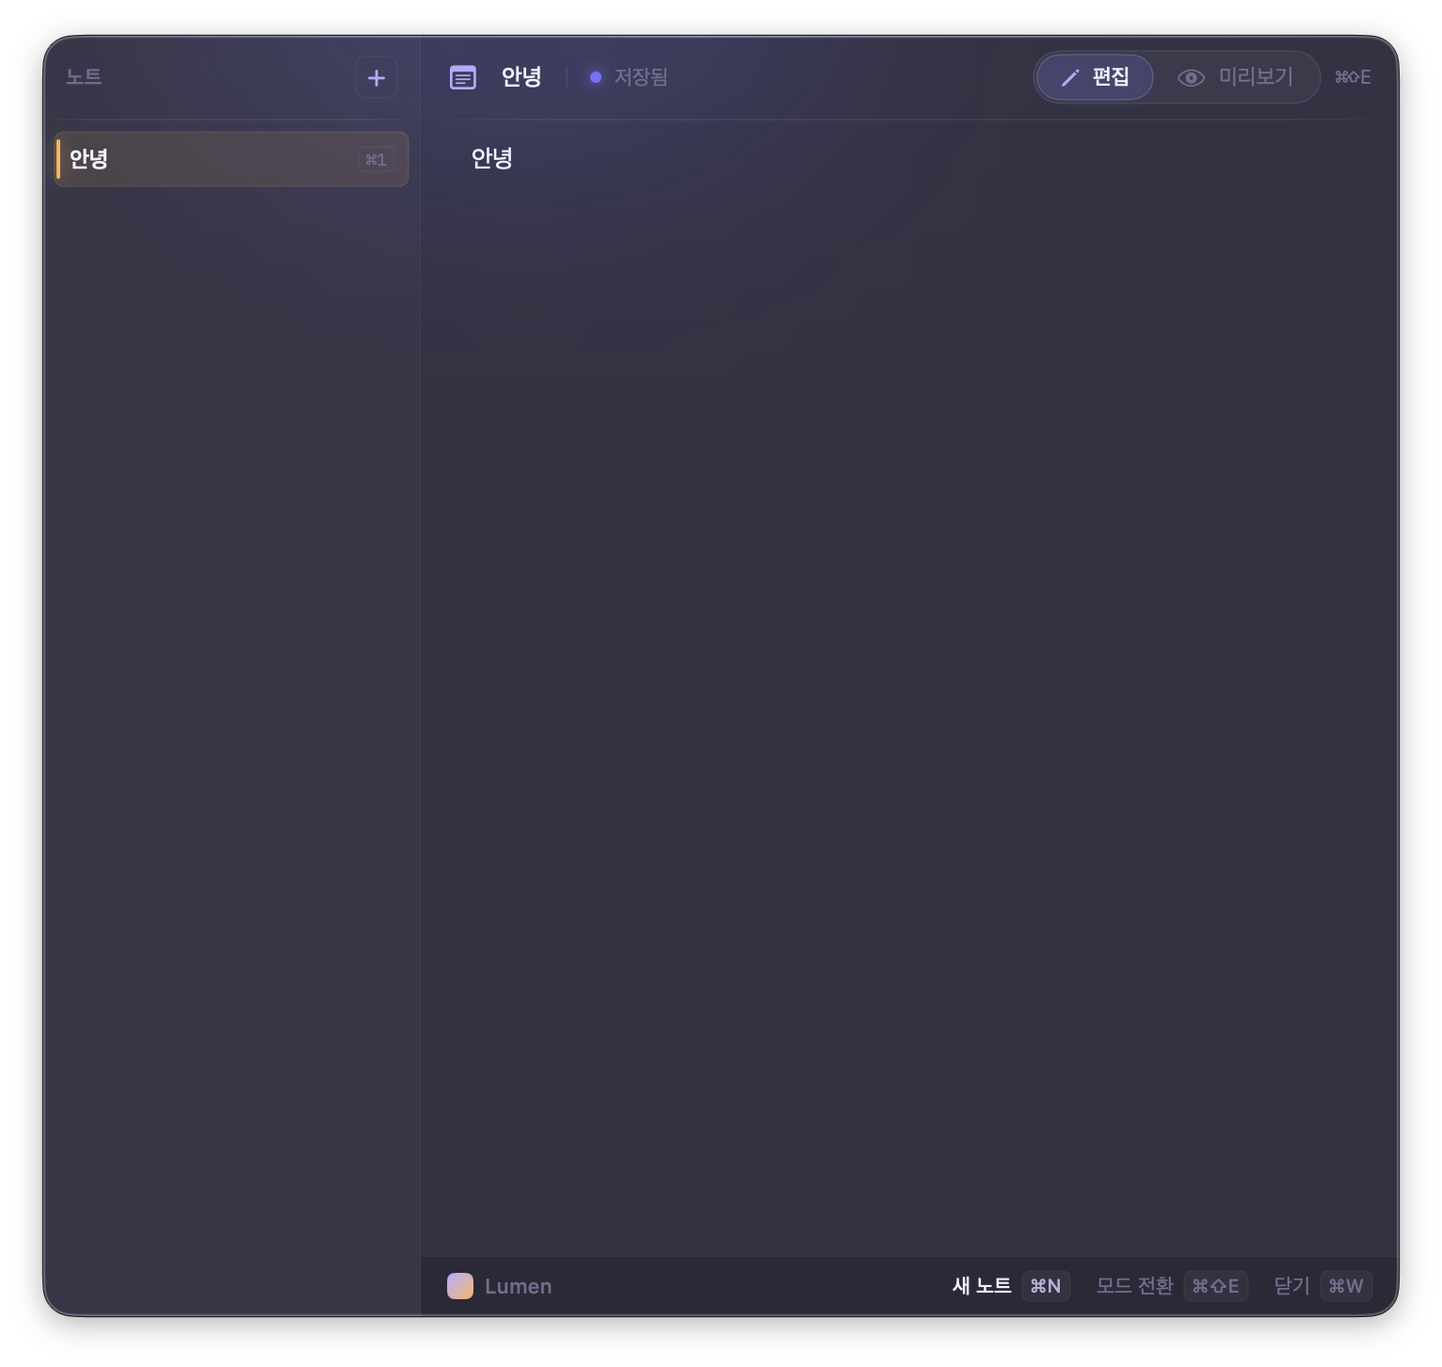
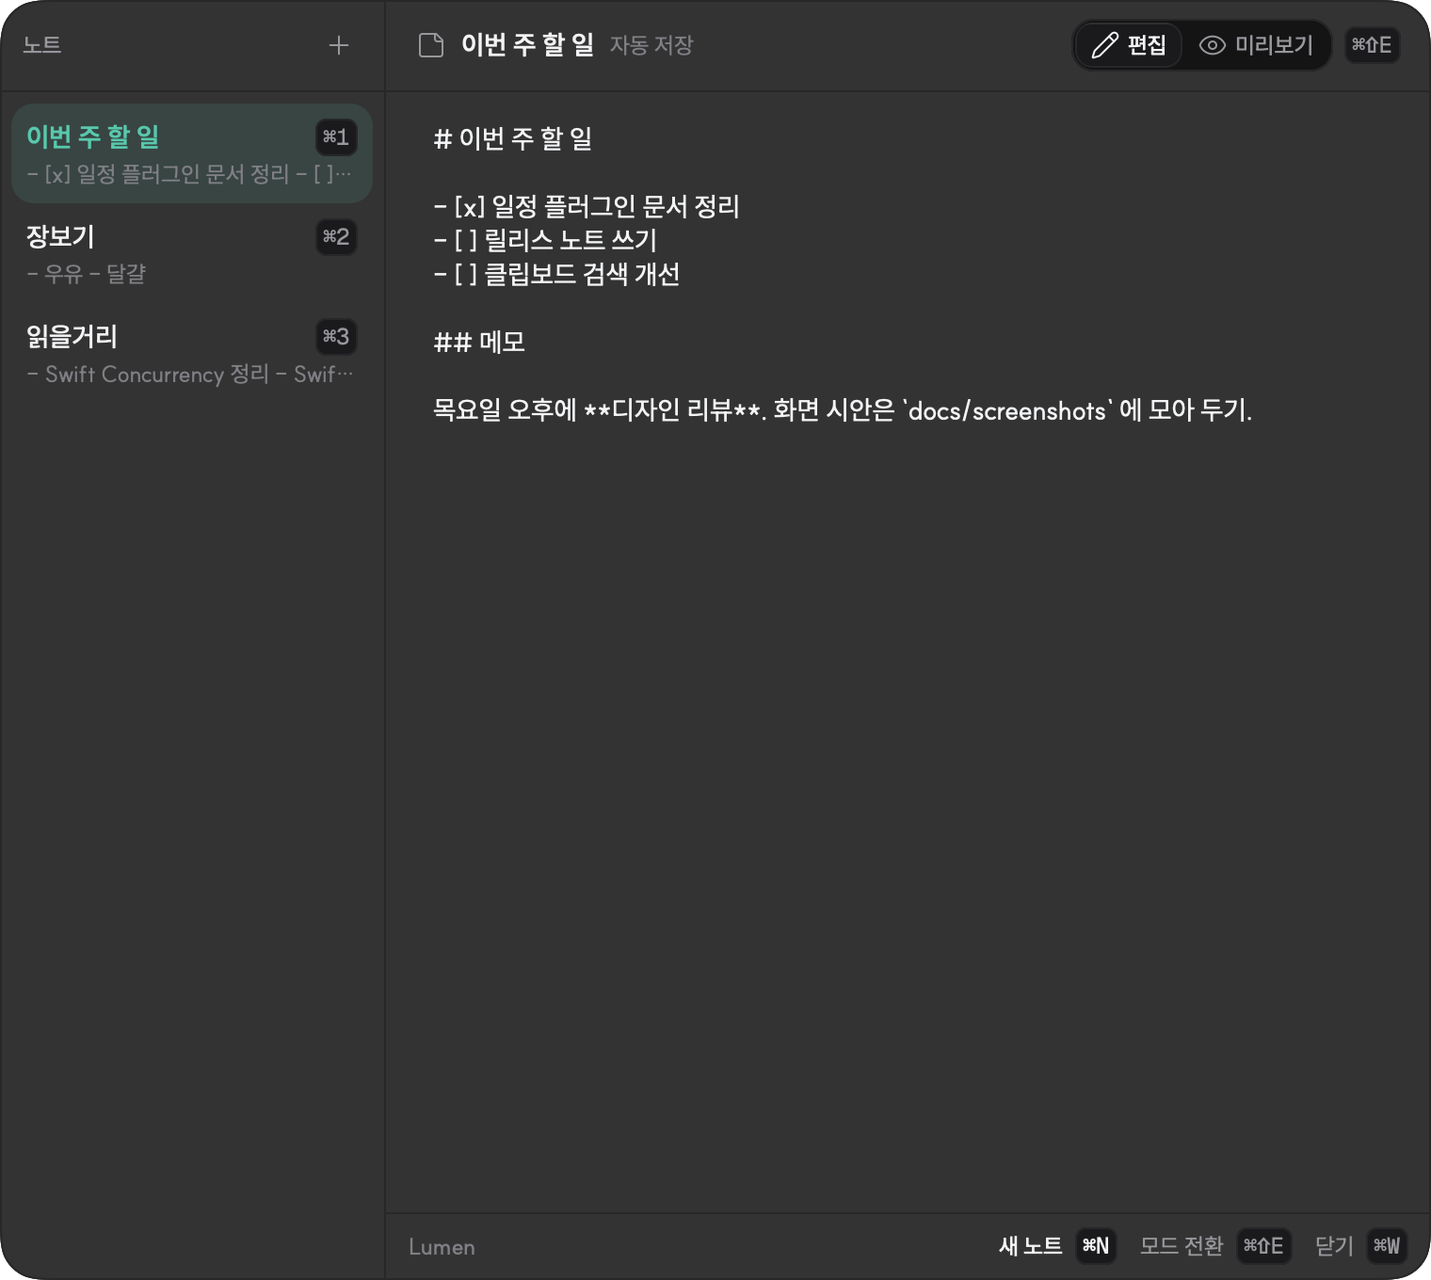
README 갱신, 스크린샷을 예시 데이터로 다시 그림 (#24)
* README 자격증명 위치를 secrets.dat 로 수정

70a7143 에서 Keychain 을 파일 기반 SecretStore 로 바꿨지만 README 데이터 위치 항목은 Keychain 으로 남아 있었다.

* graphify-out/ 을 .gitignore 에 추가

* graphify 를 필요할 때만 쓰도록 CLAUDE.md 규칙 추가

Swift 파일 120개 규모에서는 grep 이 더 빠르다. 그래프는 구조 점검, 문서와 코드 대조, 흐름 추적에만 쓴다.

* 초기 MVP 계획 문서 ultraplan_prompt.md 삭제

설정 UI 없음, API 키 하드코딩 허용 등 지금 코드·AGENTS.md 와 반대되는 내용이라 다른 세션이 현재 규칙으로 오해할 수 있다. 내용은 git 이력에 남는다.

* agent-install.md 에서 ClaudeSpot 정리와 키체인 트러블슈팅 삭제

ClaudeSpot 은 4월에 Lumen 으로 이름을 바꾼 뒤 흔적이 없고, 자격증명이 secrets.dat 파일로 옮겨져 키체인 prompt 증상은 더 생기지 않는다.

* README 갱신, 스크린샷을 예시 데이터로 다시 그림

기존 클립보드·설정 스크린샷에 회사 Jira 주소와 API 토큰 앞부분이 찍혀 있었다. 실제 앱 화면 대신 예시 데이터로 그리는 ReadmeScreenshotTests 를 추가하고 6장을 모두 교체했다. 없는 단축키(⌘⇧M), 업데이트 주기, 사라진 발음 기능 등 틀린 설명을 고치고 빠진 기능(카페인, 클램쉘 모드, 컬러 피커, 리소스 모니터)과 ⌘⇧L 을 추가했다.

Changed region(s): [[0.0, 0.0, 1.0, 1.0], [0.3092, 0.3088, 0.8658, 0.3397], [0.2164, 0.2471, 0.2783, 0.3088]]

diff --git a/Lumen/LumenTests/ReadmeScreenshotTests.swift b/Lumen/LumenTests/ReadmeScreenshotTests.swift
@@ -1,0 +1,122 @@
+import AppKit
+import SwiftUI
+import XCTest
+@testable import Lumen
+
+/// README 스크린샷을 예시 데이터로 그린다. 실제 앱 화면을 찍으면 클립보드·노트·설정 값이 그대로 찍히기 때문이다.
+/// `TEST_RUNNER_LUMEN_SNAPSHOT_DIR=<폴더>` 를 주고 돌릴 때만 실행된다.
+@MainActor
+final class ReadmeScreenshotTests: XCTestCase {
+
+    private var outDir: URL!
+
+    override func setUpWithError() throws {
+        let dir = ProcessInfo.processInfo.environment["LUMEN_SNAPSHOT_DIR"]
+        try XCTSkipUnless(dir != nil, "README 스크린샷은 LUMEN_SNAPSHOT_DIR 를 줄 때만 만든다")
+        outDir = URL(fileURLWithPath: dir!)
+    }
+
+    func testSearch() throws {
+        let vm = SearchViewModel()
+        vm.query = "100 usd"
+        try render(SearchView(viewModel: vm, onDismiss: {}), size: Constants.searchWindowSize, named: "Lumen.png")
+    }
+
+    func testTranslator() throws {
+        let file = FileManager.default.temporaryDirectory
+            .appendingPathComponent("readme-translation-\(UUID().uuidString).json")
+        defer { try? FileManager.default.removeItem(at: file) }
+        let vm = TranslatorViewModel(savePath: file)
+        for (original, translated) in [
+            ("오늘 회의는 3시로 옮겼어요.", "Today's meeting has been moved to 3 PM."),
+            ("release notes", "릴리스 노트"),
+            ("Thanks for the quick review. I'll update the docs today.",
+             "빠르게 리뷰해 주셔서 고마워요. 오늘 문서를 고칠게요."),
+        ] {
+            vm.inputText = original
+            vm.handleTranslationResult(translated)
+        }
+        try render(TranslatorView(viewModel: vm), size: Constants.translatorWindowSize, named: "Translator.png")
+    }
+
+    func testNote() throws {
+        let dir = FileManager.default.temporaryDirectory
+            .appendingPathComponent("readme-notes-\(UUID().uuidString)", isDirectory: true)
+        try FileManager.default.createDirectory(at: dir, withIntermediateDirectories: true)
+        defer { try? FileManager.default.removeItem(at: dir) }
+        let notes = [
+            ("1", "# 이번 주 할 일\n\n- [x] 일정 플러그인 문서 정리\n- [ ] 릴리스 노트 쓰기\n- [ ] 클립보드 검색 개선\n\n## 메모\n\n목요일 오후에 **디자인 리뷰**. 화면 시안은 `docs/screenshots` 에 모아 두기."),
+            ("2", "# 장보기\n\n- 우유\n- 달걀\n- 커피 원두"),
+            ("3", "# 읽을거리\n\n- Swift Concurrency 정리\n- SwiftUI 레이아웃 가이드"),
+        ]
+        for (id, text) in notes {
+            try text.write(to: dir.appendingPathComponent("\(id).md"), atomically: true, encoding: .utf8)
+        }
+        try JSONEncoder().encode(notes.map(\.0)).write(to: dir.appendingPathComponent(".order.json"))
+        try render(NoteView(viewModel: NotesViewModel(notesDir: dir)), size: Constants.noteWindowSize, named: "Note.png")
+    }
+
+    /// 공용 `ClipboardManager.shared` 의 메모리 속 기록만 잠깐 바꿔 그리고 되돌린다. 디스크 저장은 부르지 않는다.
+    func testClipboard() throws {
+        let manager = ClipboardManager.shared
+        manager.stopMonitoring()
+        let saved = manager.history
+        defer { manager.history = saved }
+
+        let now = Date()
+        func text(_ s: String, _ app: String, _ bundle: String, _ minutesAgo: Double) -> ClipboardItem {
+            ClipboardItem(date: now.addingTimeInterval(-minutesAgo * 60), text: s, fileURLs: nil, image: nil,
+                          sourceApp: app, sourceAppBundleID: bundle)
+        }
+        manager.history = [
+            text("회의는 목요일 오후 3시로 옮겼어요. 장소는 3층 회의실입니다.", "메모", "com.apple.Notes", 1),
+            text("https://developer.apple.com/documentation/swiftui", "Safari", "com.apple.Safari", 4),
+            text("git switch -c feat/new_panel", "터미널", "com.apple.Terminal", 9),
+            ClipboardItem(date: now.addingTimeInterval(-15 * 60), text: nil, fileURLs: nil, image: Self.sampleImage(),
+                          sourceApp: "미리보기", sourceAppBundleID: "com.apple.Preview"),
+            ClipboardItem(date: now.addingTimeInterval(-30 * 60), text: nil,
+                          fileURLs: [URL(fileURLWithPath: "/Users/Shared/기획안.pdf")], image: nil,
+                          sourceApp: "Finder", sourceAppBundleID: "com.apple.finder"),
+            text("let total = items.reduce(0) { $0 + $1.price }", "Xcode", "com.apple.dt.Xcode", 42),
+            text("서울특별시 중구 세종대로 110", "지도", "com.apple.Maps", 75),
+        ]
+        try render(ClipboardView(), size: Constants.clipboardWindowSize, named: "Clipboard.png")
+    }
+
+    func testSettings() throws {
+        // 유리 효과가 켜져 있으면 설정 화면은 배경을 창에 맡겨 투명하다. 창 없이 그리므로 바탕색을 깐다.
+        try render(SettingsView().background(LumenTokens.Palette.surface),
+                   size: Constants.settingsWindowSize, named: "Settings.png")
+    }
+
+    // MARK: - Helpers
+
+    private static func sampleImage() -> NSImage {
+        let size = NSSize(width: 480, height: 300)
+        return NSImage(size: size, flipped: false) { rect in
+            NSGradient(colors: [.systemTeal, .systemIndigo])?.draw(in: rect, angle: 35)
+            return true
+        }
+    }
+
+    private func render(_ view: some View, size: NSSize, named name: String) throws {
+        // 토큰 색은 앱 전체 appearance 를 따른다. 창에만 dark 를 주면 설정 화면처럼 배경이 밝게 섞인다.
+        let previousAppearance = NSApp.appearance
+        NSApp.appearance = NSAppearance(named: .darkAqua)
+        defer { NSApp.appearance = previousAppearance }
+        let hosting = NSHostingView(rootView: view.environment(\.colorScheme, .dark))
+        hosting.frame = NSRect(origin: .zero, size: size)
+        let window = NSWindow(contentRect: hosting.frame, styleMask: [.borderless], backing: .buffered, defer: false)
+        window.appearance = NSAppearance(named: .darkAqua)
+        window.contentView = hosting
+        window.setIsVisible(true)
+        hosting.layoutSubtreeIfNeeded()
+        RunLoop.current.run(until: Date().addingTimeInterval(1.5))
+
+        let rep = try XCTUnwrap(hosting.bitmapImageRepForCachingDisplay(in: hosting.bounds), "캡처 실패")
+        hosting.cacheDisplay(in: hosting.bounds, to: rep)
+        let png = try XCTUnwrap(rep.representation(using: .png, properties: [:]))
+        try png.write(to: outDir.appendingPathComponent(name))
+        window.setIsVisible(false)
+    }
+}

diff --git a/README.md b/README.md
@@ -6,47 +6,63 @@
 ![Platform](https://img.shields.io/badge/macOS-26.2%2B-lightgrey)
 ![License](https://img.shields.io/badge/license-personal-lightgrey)
 
-Lumen은 **⌘Space**로 떠오르는 한 장짜리 패널에서 앱 실행 · 계산 · 환율 변환 · 번역 · 클립보드 · 메모 · 일정을 처리합니다. 작업의 맥락을 끊지 않는 게 핵심 — 패널을 띄우고, 일을 마치고, 사라집니다.
+Lumen은 **⌘Space**로 떠오르는 패널에서 앱 실행 · 계산 · 환율 변환 · 번역 · 클립보드 · 메모 · 일정을 처리합니다. 작업의 맥락을 끊지 않는 게 핵심 — 패널을 띄우고, 일을 마치고, 사라집니다.
 
 ---
 
 ## ✨ 화면
 
+*스크린샷은 모두 예시 데이터로 그렸습니다.*
+
 ### 검색 — `⌘Space`
 
 ![검색 패널](docs/screenshots/Lumen.png)
 
-설치된 앱 빠른 실행, 사칙연산(`5 * (3+2)`), 환율 변환(`100 usd`, `5만원`), 빠른 실행 카드.
+설치된 앱 빠른 실행, 사칙연산(`5 * (3+2)`), 환율 변환(`100 usd`, `5만원`). 아래 [그 밖의 기능](#그-밖의-기능)도 이름으로 찾아 켭니다. 검색 결과에 호버하면 나오는 숨기기 버튼으로 앱을 목록에서 뺄 수 있어요.
 
 ### 번역 — `⌘⇧C`
 
 ![번역 패널](docs/screenshots/Translator.png)
 
-Apple 온디바이스 번역(`Translation` 프레임워크) 기반 한↔영 번역. API 키도 네트워크도 필요 없고, 입력 언어는 자동 감지해 반대 방향으로 번역합니다. 발음 표기 토글, 우측에 최근 번역 30건 히스토리. 입력·결과 모두 *발음 복사*/*결과 복사* 버튼으로 즉시 클립보드.
+Apple 온디바이스 번역(`Translation` 프레임워크) 기반 한↔영 번역. API 키도 네트워크도 필요 없고, 입력 언어를 자동 감지해 반대 방향으로 번역합니다. 오른쪽에 최근 번역 30건 기록, `⌘C`로 결과 복사.
 
 ### 노트 — `⌘⇧X`
 
 ![노트 패널](docs/screenshots/Note.png)
 
-마크다운 메모. 좌측 사이드바로 노트 여러 개를 탭처럼 관리합니다. `⌘N` 새 노트, `⌘1`~`⌘9` 탭 이동, `⌘⇧]/[` 다음·이전, `⌘⌫` 삭제, `⌘⇧E` 편집/미리보기 토글. 입력은 1초 디바운스로 자동 저장.
+마크다운 메모. 왼쪽 사이드바로 노트 여러 개를 탭처럼 관리합니다. `⌘N` 새 노트, `⌘1`~`⌘9` 탭 이동, `⌘⇧]/[` 다음·이전, `⌘⌫` 삭제, `⌘⇧E` 편집/미리보기 전환, `⌘W` 닫기. 입력은 1초 뒤 자동 저장.
 
 ### 클립보드 — `⌘⇧V`
 
 ![클립보드 패널](docs/screenshots/Clipboard.png)
 
-최근 텍스트·이미지 히스토리. 좌측에서 항목 선택 → 우측에서 본문/메타데이터(앱·시간·크기) 확인 → 그대로 복사 또는 붙여넣기.
+최근 텍스트 · 이미지 · 파일 기록 500건. 왼쪽에서 항목을 고르면 오른쪽에 본문과 복사한 앱 · 시간 · 글자 수가 보이고, `↩`로 바로 복사합니다.
 
 ### 설정 — `⌘,`
 
 ![설정 패널](docs/screenshots/Settings.png)
 
-사이드바가 **일반**(UI, 숨긴 앱, 전원)과 **일정**(대시보드, 캘린더, Jira)으로 나뉩니다. 일정 플러그인 설정은 저장하면 바로 적용돼요. 검색 결과에서 호버 시 나오는 작은 숨기기 버튼으로 가린 앱은 **숨긴 앱** 탭에서 한 번에 되돌리기 가능.
+사이드바가 **일반**(UI, 숨긴 앱, 전원)과 **일정**(대시보드, 캘린더, Jira)으로 나뉩니다. UI 탭에서 테마(시스템 · 다크 · 라이트), 밀도, 배경 유리 효과를 고릅니다. 일정 플러그인 설정은 저장하면 바로 적용되고, 숨긴 앱은 **숨긴 앱** 탭에서 한 번에 되돌립니다.
 
 ### 일정 — `⌘⇧G`
 
 ![일정 대시보드](docs/screenshots/Schedule.png)
 
-캘린더 앱의 일정, Jira 담당 이슈, 직접 적은 내 일정을 한 화면에 모읍니다. 연동이 없어도 열리고, 일정 출처는 플러그인으로 붙습니다(새 출처 붙이는 법: [docs/schedule-plugins.md](docs/schedule-plugins.md)). 왼쪽은 지난 기한부터 그 이후까지 날짜로 묶은 목록, 오른쪽은 월간·주간 캘린더예요. 패널 안에서 `⌘1` 월간, `⌘2` 주간, `⌘T` 오늘, `⌘N` 새 일정. 메뉴바에는 다음 일정 라벨이 뜨고, 누르거나 `⌘⇧A`를 누르면 오늘 일정이 열려요. *(스크린샷은 예시 데이터)*
+캘린더 앱의 일정, Jira 담당 이슈, 직접 적은 내 일정을 한 화면에 모읍니다. 연동이 없어도 열리고, 일정 출처는 플러그인으로 붙습니다(새 출처 붙이는 법: [docs/schedule-plugins.md](docs/schedule-plugins.md)). 왼쪽은 지난 기한부터 그 이후까지 날짜로 묶은 목록, 오른쪽은 월간 · 주간 캘린더예요. 토 · 일요일과 공휴일은 빨간색이고, 음력 날짜를 함께 볼 수 있어요. 패널 안에서 `⌘1` 월간, `⌘2` 주간, `⌘T` 오늘, `⌘N` 새 일정. 메뉴바에는 다음 일정 라벨이 뜨고, 누르거나 `⌘⇧A`를 누르면 오늘 일정이 열려요.
+
+---
+
+## 그 밖의 기능
+
+검색창에서 이름으로 찾아 실행합니다.
+
+| 기능 | 하는 일 |
+|---|---|
+| 카페인 | 화면이 잠들지 않게 합니다. 앱을 켜면 자동으로 켜지고, 메뉴바 아이콘을 눌러 끕니다 |
+| 클램쉘 모드 | 덮개를 닫아도 맥이 잠들지 않게 합니다. 최대 2시간 뒤 자동으로 꺼져요 (처음 한 번 관리자 암호) |
+| 윈도우 마그넷 | 앞에 있는 창을 화면 왼쪽·오른쪽 절반에 붙입니다. `⌃⌥←` / `⌃⌥→` |
+| 컬러 피커 | 화면에서 색을 집어 HEX 값을 복사합니다 |
+| 리소스 모니터 | Lumen 자신의 메모리 · CPU · 스레드를 실시간으로 봅니다. 진단용 추적 로그도 여기서 켜요 |
 
 ---
 
@@ -57,13 +73,14 @@ Apple 온디바이스 번역(`Translation` 프레임워크) 기반 한↔영 번
 | `⌘Space` | 검색 패널 |
 | `⌘⇧C` | 번역 |
 | `⌘⇧V` | 클립보드 |
-| `⌘⇧X` | 노트 (단일 패널 정책 예외 — 다른 패널과 공존) |
+| `⌘⇧X` | 노트 (다른 패널과 함께 띄울 수 있음) |
 | `⌘⇧G` | 일정 대시보드 |
 | `⌘⇧A` | 오늘 일정 (메뉴바) |
-| `⌘⇧M` | 윈도우 마그넷 좌/우 분할 (`⌃⌥←/→`) |
-| `⌘,` | Settings |
+| `⌘⇧L` | 떠 있는 Lumen 패널로 키보드 포커스 되돌리기 |
+| `⌃⌥←` / `⌃⌥→` | 윈도우 마그넷 왼쪽 / 오른쪽 절반 |
+| `⌘,` | 설정 |
 
-검색/번역/클립보드/일정은 한 번에 하나만 떠 있습니다 (single-panel policy). 노트만 다른 패널과 나란히 띄울 수 있어요.
+패널은 한 번에 하나만 떠 있습니다. 다른 패널을 열면 앞의 패널이 닫혀요. 노트만 예외로 다른 패널과 나란히 띄울 수 있어요.
 
 ---
 
@@ -73,9 +90,9 @@ Apple 온디바이스 번역(`Translation` 프레임워크) 기반 한↔영 번
 2. 압축 풀고 `Lumen.app`을 `/Applications`로 이동
 3. **첫 실행만** Finder에서 우클릭 → **열기** (self-signed 빌드라 Gatekeeper 통과 1회 필요)
 4. 시스템 설정 → **손쉬운 사용** / **입력 모니터링** 에서 Lumen 토글 ON
-5. `⌘,` 로 Settings 열어 **일정** 섹션에서 캘린더·Jira 연동 켜기 (일정 대시보드에 연동 일정을 보고 싶을 때만)
+5. `⌘,` 로 설정을 열어 **일정** 섹션에서 캘린더 · Jira 연동 켜기 (일정 대시보드에 연동 일정을 보고 싶을 때만)
 
-이후 새 버전은 메뉴바 → "업데이트 확인…" 또는 24시간마다 Sparkle이 자동으로 받습니다.
+이후 새 버전은 Sparkle이 1시간마다 확인해 자동으로 받습니다. 메뉴바 → "업데이트 확인…"으로 바로 확인할 수도 있어요.
 
 ---
 
@@ -87,16 +104,17 @@ Apple 온디바이스 번역(`Translation` 프레임워크) 기반 한↔영 번
 
 | 기능 | 필요한 것 |
 |---|---|
-| 검색 / 클립보드 / 노트 / 윈도우 마그넷 / 카페인 | 없음 |
-| 환율 변환 | 인터넷 (open.er-api.com 일 1회 fetch, 캐시로 오프라인 동작) |
+| 검색 / 클립보드 / 노트 / 윈도우 마그넷 / 카페인 / 컬러 피커 / 리소스 모니터 | 없음 |
+| 환율 변환 | 인터넷 (open.er-api.com 하루 1회 받고 캐시로 오프라인 동작) |
 | 번역 | 없음 (Apple 온디바이스 번역 — 첫 사용 시 macOS가 언어 모델 다운로드를 물어봅니다) |
+| 클램쉘 모드 | 처음 한 번 관리자 암호 (시스템 잠자기 설정을 바꾸는 규칙을 설치) |
 | 일정 대시보드 | 없음. 캘린더 연동은 캘린더 접근 권한, Jira 연동은 Jira Cloud 워크스페이스 + 이메일 + API 토큰 |
 
 ---
 
 ## 🤖 AI 에이전트용 자동 설치 / 트러블슈팅
 
-Antigravity 등 AI 에이전트가 새 macOS에 Lumen을 자율 설치하기 위한 명령어·검증 단계 + 흔한 문제 해결법은 별도 문서로 분리했습니다 → **[docs/agent-install.md](docs/agent-install.md)**
+AI 에이전트가 새 macOS에 Lumen을 자율 설치하기 위한 명령어 · 검증 단계 + 흔한 문제 해결법은 별도 문서로 분리했습니다 → **[docs/agent-install.md](docs/agent-install.md)**
 
 ---
 
@@ -112,13 +130,28 @@ Antigravity 등 AI 에이전트가 새 macOS에 Lumen을 자율 설치하기 위
 - macOS Keychain에 코드사이닝 인증서 `Lumen Self-Signed`
 - macOS Keychain에 Sparkle EdDSA 비공개키 (`generate_keys` 1회)
 
+README 스크린샷은 예시 데이터로 다시 그립니다 (실제 앱 화면을 찍으면 클립보드 · 노트 · 설정 값이 그대로 찍힙니다):
+
+```sh
+TEST_RUNNER_LUMEN_SNAPSHOT_DIR=/tmp/lumen-shots xcodebuild test -project Lumen/Lumen.xcodeproj -scheme Lumen \
+  -destination 'platform=macOS' -only-testing:LumenTests/ReadmeScreenshotTests \
+  -only-testing:LumenTests/ScheduleSnapshotTests/testRenderDashboardMonthAndWeek
+```
+
+`/tmp/lumen-shots` 의 PNG를 `docs/screenshots/` 로 옮깁니다(`schedule-month.png` → `Schedule.png`).
+
 ---
 
 ## 데이터 위치
 
-- **자격증명**: macOS Keychain (`com.jh.Lumen` 서비스)
-- **노트**: `~/Library/Application Support/Lumen/notes/<id>.md` (탭마다 1파일)
-- **클립보드 / 숨긴 앱 / 환율 캐시**: `~/Library/Application Support/Lumen/`
+모두 `~/Library/Application Support/Lumen/` 아래에 있습니다.
+
+- **자격증명**: `secrets.dat` (기기 UUID로 난독화, 0600)
+- **노트**: `notes/<id>.md` (탭마다 1파일)
+- **클립보드 기록**: `clipboard_history.json`, 이미지는 `images/`
+- **번역 기록**: `translation_history.json`
+- **내 일정**: `local_events.json`
+- **일정 캐시 / 숨긴 앱 / 환율 캐시 / 리소스 이상 기록**: `schedule_cache/`, `hidden_apps.json`, `currency_rates.json`, `resource_anomalies.json`
 - **진단 로그**: `~/Library/Logs/Lumen/memory_trace.log`
 
 ---

diff --git a/docs/agent-install.md b/docs/agent-install.md
@@ -8,18 +8,15 @@
 sw_vers -productVersion   # 26.2+ 필요
 ```
 
-## 1. 옛 버전 / 옛 이름(ClaudeSpot) 정리
+## 1. 옛 버전 정리
 
 ```bash
 osascript -e 'tell application "Lumen" to quit' 2>/dev/null
-osascript -e 'tell application "ClaudeSpot" to quit' 2>/dev/null
 sleep 1
 
 [ -d /Applications/Lumen.app ] && rm -rf /Applications/Lumen.app
-[ -d /Applications/ClaudeSpot.app ] && rm -rf /Applications/ClaudeSpot.app
 
 tccutil reset All com.jh.Lumen 2>/dev/null
-tccutil reset All com.jh.ClaudeSpot 2>/dev/null
 ```
 
 ## 2. 최신 릴리즈 설치
@@ -87,6 +84,5 @@ pgrep -lf "/Applications/Lumen.app/Contents/MacOS/Lumen" >/dev/null \
 |---|---|
 | Gatekeeper "확인되지 않은 개발자" | self-signed 빌드라 정상. Finder 우클릭 → "열기" 1회. |
 | 권한 ON인데 핫키 무반응 | TCC DB 잔재. `tccutil reset All com.jh.Lumen` 후 권한 재부여. |
-| 키체인 prompt가 매번 뜸 | 옛 fingerprint 잔재. Settings에서 자격증명 한 번 비우고 다시 입력 (1.0.46+에서 자동 ACL 부여됨). |
 | 핫키가 다른 앱에 가로채짐 | 시스템 설정 → 키보드 → 단축키에서 충돌 항목 비활성화. |
 | 메뉴바 아이콘 안 보임 | Bartender 등 메뉴바 정리 도구 가능성. 화살표 클릭으로 확장. |

diff --git a/CLAUDE.md b/CLAUDE.md
@@ -1,0 +1,7 @@
+## graphify
+
+`graphify-out/` 의 지식 그래프는 필요할 때만 쓴다. 평소 코드 질문은 grep·Read 로 바로 찾는다.
+
+- 그래프를 쓰는 때: 전체 구조 점검(의존 방향, 여러 파일에 반복되는 코드), 문서와 코드가 어긋난 곳 찾기, 여러 파일을 거치는 흐름 추적. 이때 `graphify query`·`path`·`explain` 을 쓴다.
+- 그래프에는 문자열·숫자 값이 없다. 설정 키·하드코딩 상수 같은 검색은 grep 으로 한다.
+- 그래프는 이 맥에만 있다(`.gitignore`). 쓰기 전에 코드가 바뀌었으면 `graphify update .` 로 갱신한다.
